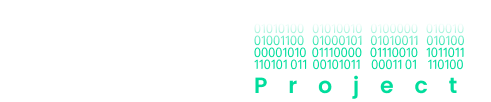
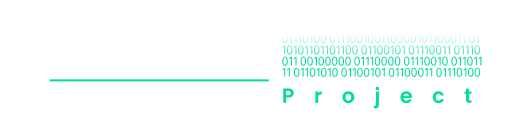
update img tcproject

Changed region(s): [[0.0916, 0.2647, 0.947, 0.9706], [0.7637, 0.7059, 0.947, 0.9118]]

diff --git a/application/views/home/index.php b/application/views/home/index.php
@@ -150,7 +150,7 @@
             <div class="col-12 mt-5">
                 <div class="powered-money d-flex justify-content-center">
                     <span class="f-monserat py-4">Powered by </span>
-                    <img src="<?= base_url() ?>assets/images/logo-new.png" alt="logo">
+                    <img src="<?= base_url() ?>assets/images/tracklessproject.png" alt="logo">
                 </div>
                 <div class="sponsor-money d-flex justify-content-center flex-wrap my-5 pb-5 text-center">
                     <a href="#" class="mx-2 mb-2 mx-sm-3 mb-sm-3 p-2 p-sm-3 p-md-4">
